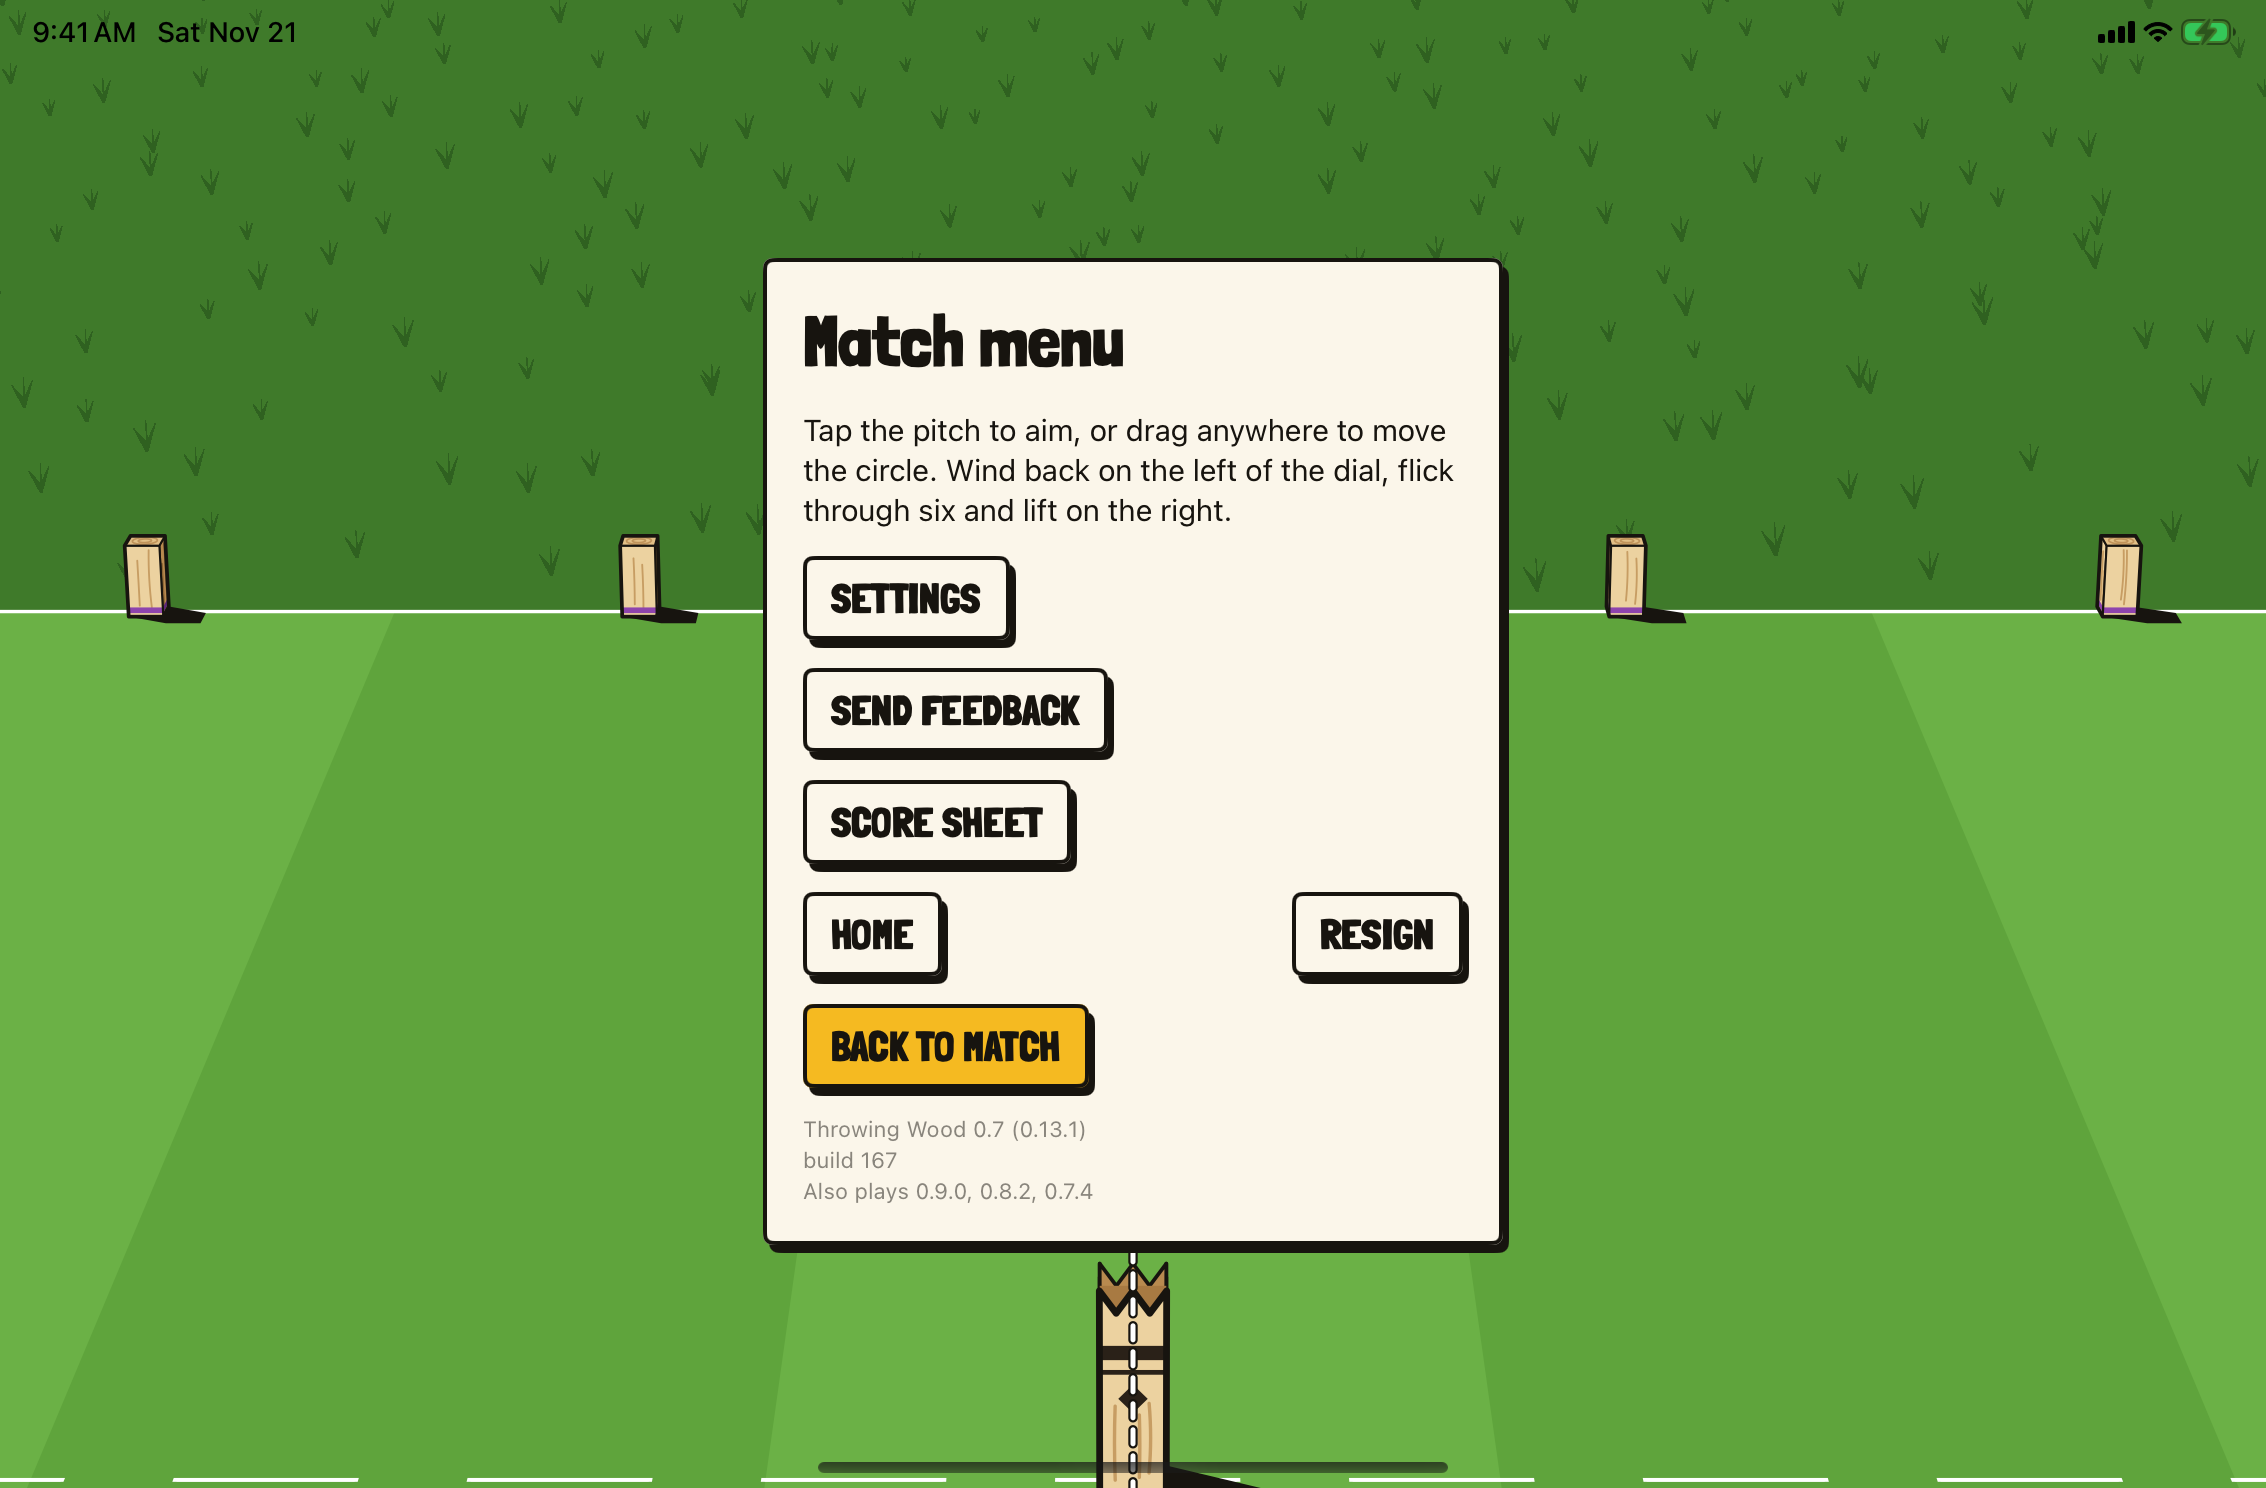
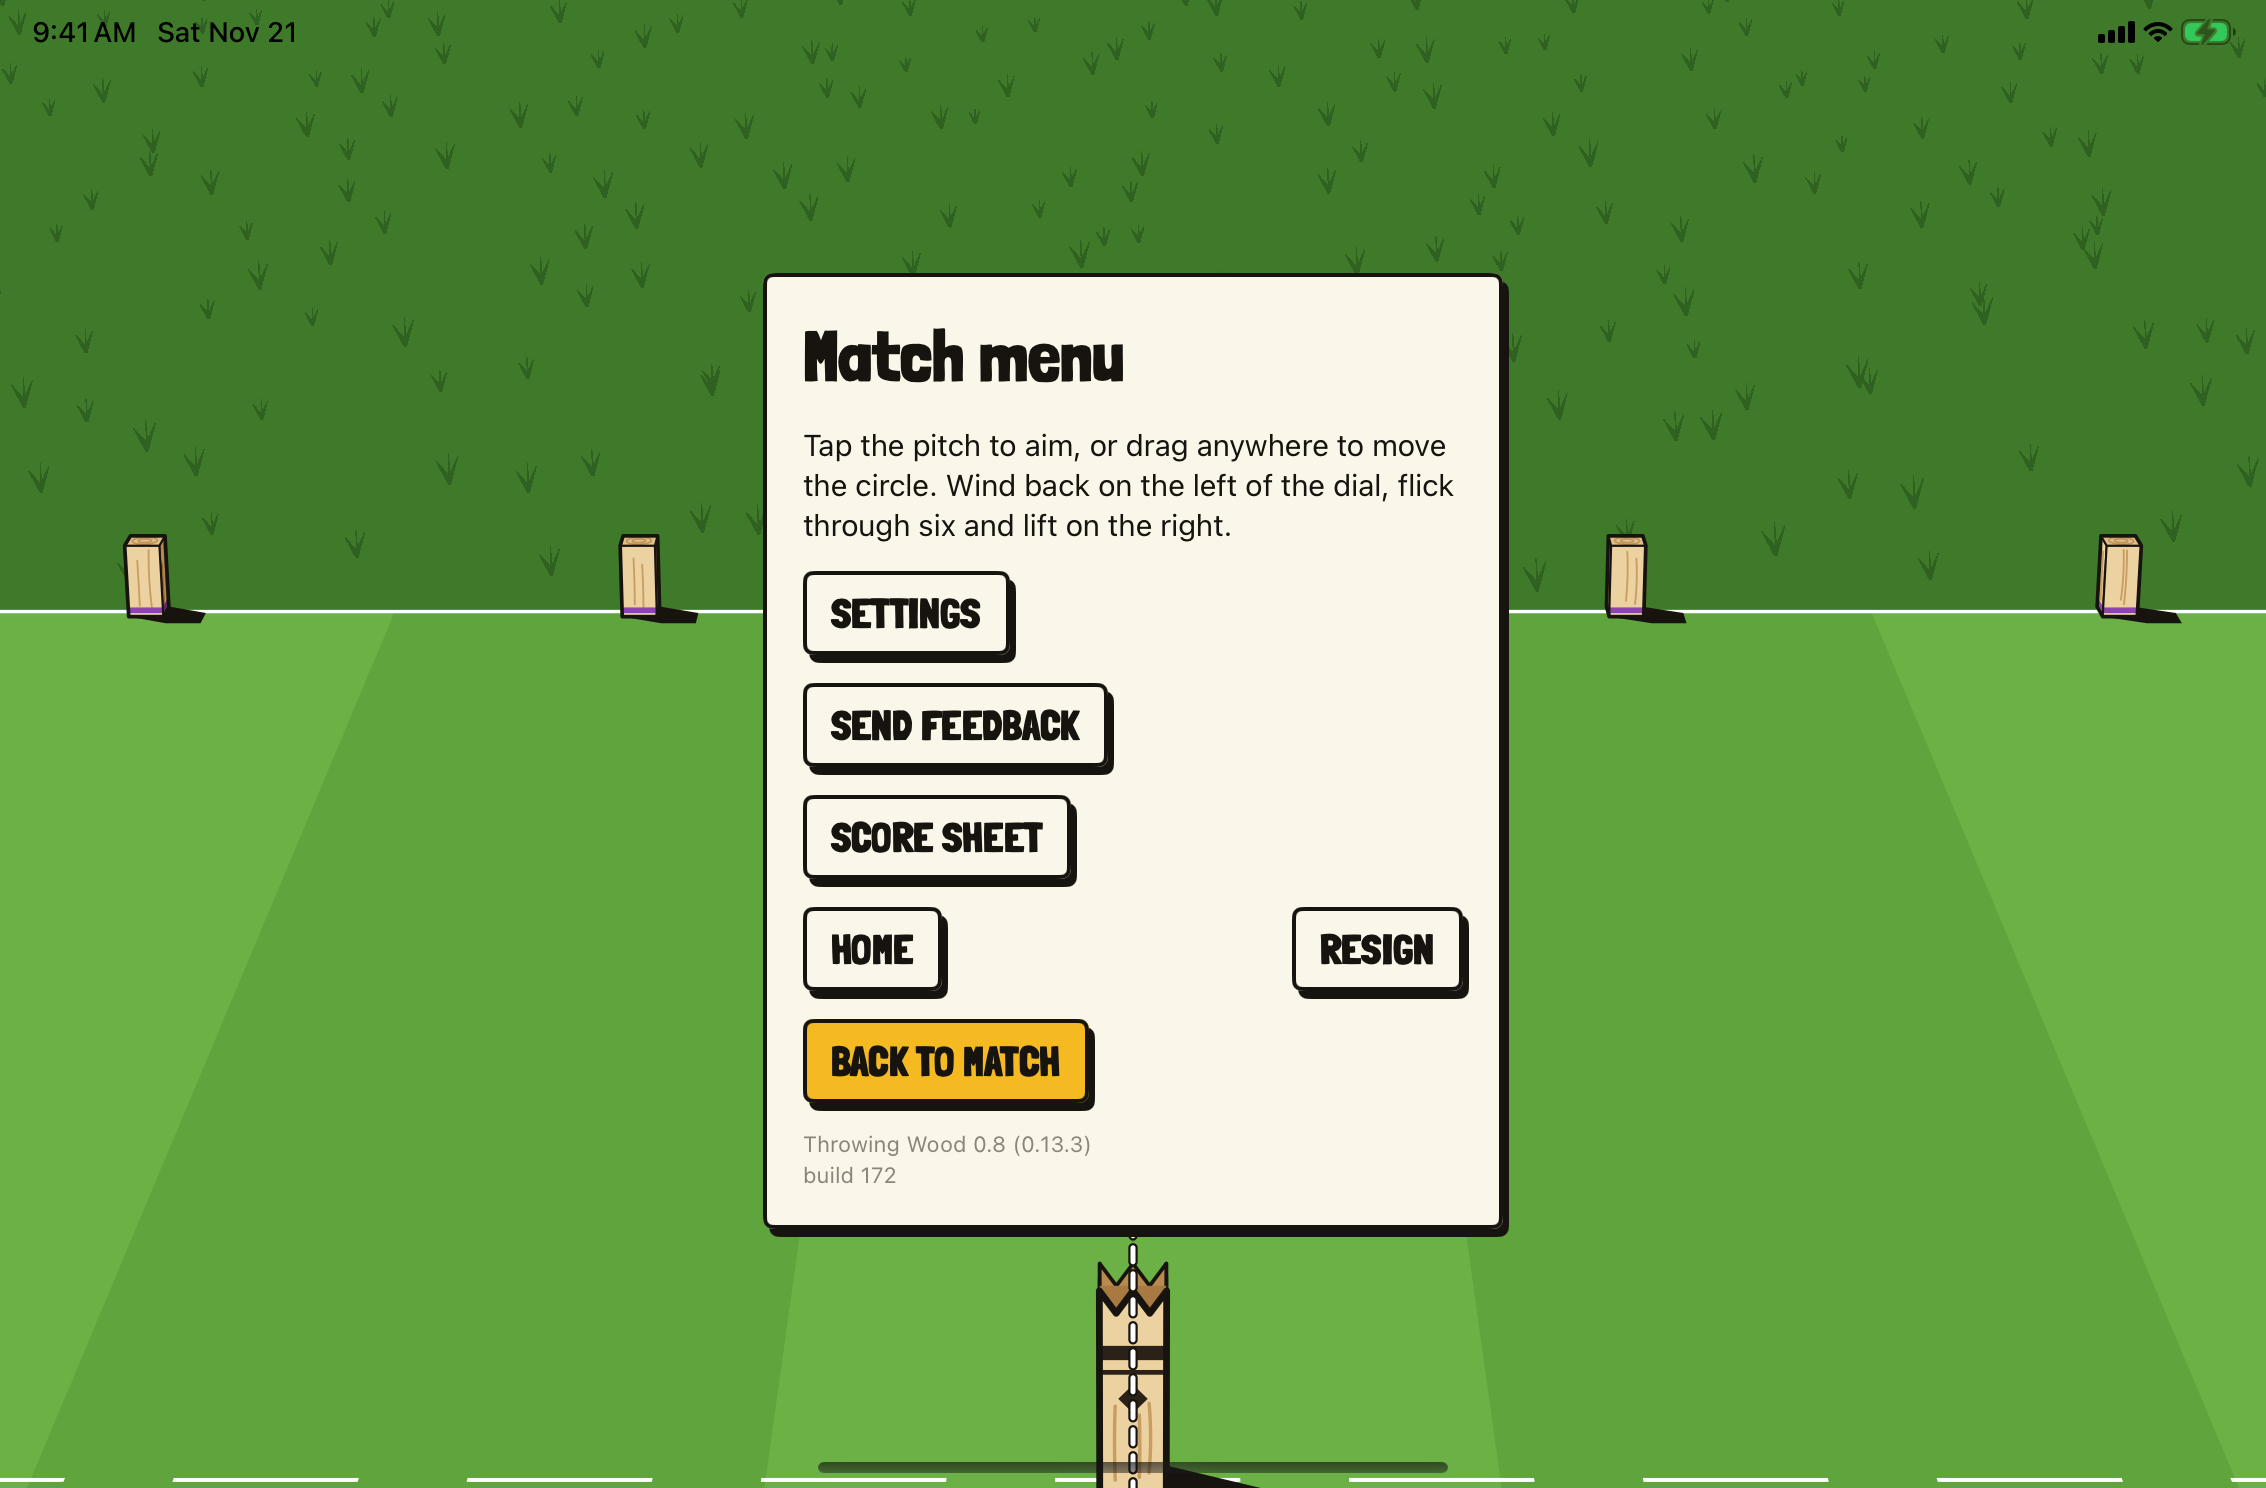
Version 0.8: the app on the newest engine alone
VERSION and MARKETING_VERSION to 0.8. The review pictures that show the
version label (the match menu, in day, night and neon, upright and on an
iPad on its side) lose the Also plays line and read 0.8 (0.13.3); the
score sheet's Throw Levels names the computer only (engine 0.13.2).

Changed region(s): [[0.3398, 0.2164, 0.6796, 0.8656], [0.3398, 0.1546, 0.6796, 0.1855], [0.556, 0.5874, 0.6487, 0.6801]]

diff --git a/docs/DISTRIBUTION.md b/docs/DISTRIBUTION.md
@@ -26,8 +26,9 @@ internal only (`testFlightInternalTestingOnly` in
 hand; the build number is the commit count, so a commit uploads once. A player sees
 the version as `<app version> (<engine version>)`, `0.2 (0.8.1)` for the first build on
 engine 0.8, `0.3 (0.9.0)` for the first on engine 0.9, `0.4 (0.9.0)` for the first
-with scenes, `0.7 (0.13.1)` for the first on engine 0.13 (AGENTS.md "The version a
-player sees").
+with scenes, `0.7 (0.13.1)` for the first on engine 0.13, `0.8 (0.13.3)` for the first
+that carries the newest engine alone (docs/ENGINES.md: it plays no match with a build
+before 0.7 or a web tab on 0.9) (AGENTS.md "The version a player sees").
 `scripts/asc.swift` calls the App Store Connect API for the rest (groups,
 What to Test, review submissions).
 
@@ -117,7 +118,7 @@ The six portrait PNGs under `docs/store/` come from the Release simulator app on
 
 ## First signed iPhone checklist
 
-- Run the KubbEngineTests golden suite from Xcode against the connected iPhone. Match every action hash in every reference match (engine 0.8: 505 in 13). Record device model, OS and commit with the result.
+- Run the KubbEngineTests golden suite from Xcode against the connected iPhone. Match every action hash in every reference match (engine 0.13: 579 in 15). Record device model, OS and commit with the result.
 - On a ProMotion phone, enable the full refresh rate and profile an optimized build in Instruments. Measure frame intervals and update/draw time through aim, release, flight, impact and rest. Record median, p95, p99 and longest frame against the 8.33 ms budget at 120 Hz. Check input-to-knock timing through the speaker and Bluetooth.
 - Feel band entry and exit, release, light and heavy contact, the three surface landings, king-down, win and hand-off. Check spectator cues, slow motion, SKIP and the HAPTICS switch. Use the provisional values in [FEEL.md](FEEL.md) as the comparison.
 - Test the silent switch, other music, audio interruption and route changes. Check independent SOUND and HAPTICS settings after relaunch, and that leaving a pitch stops both.
